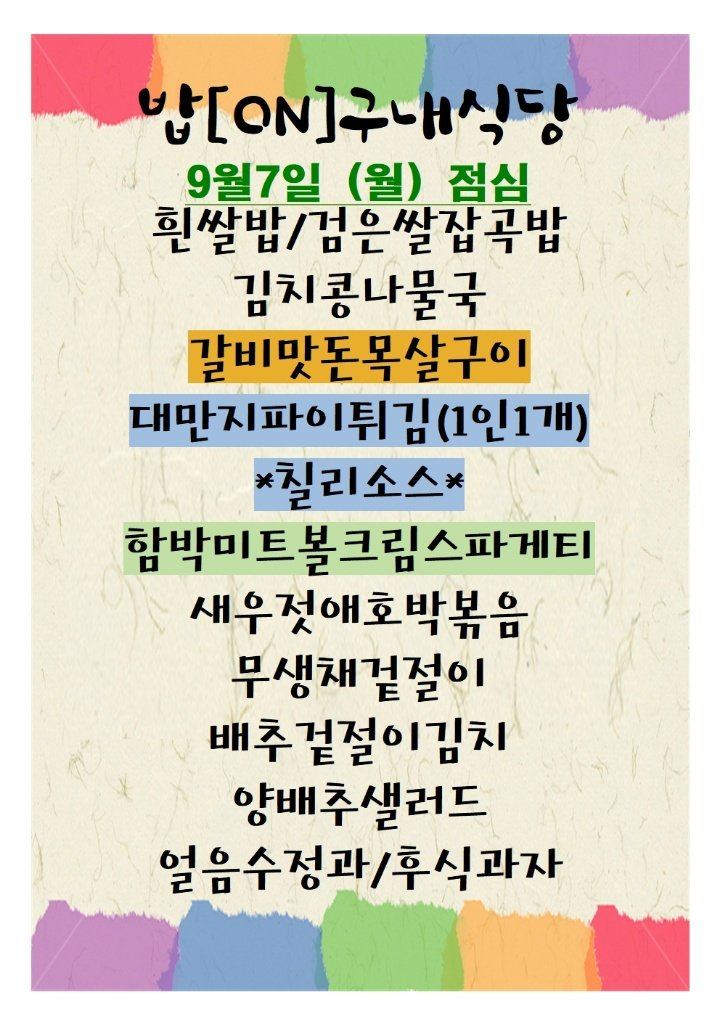
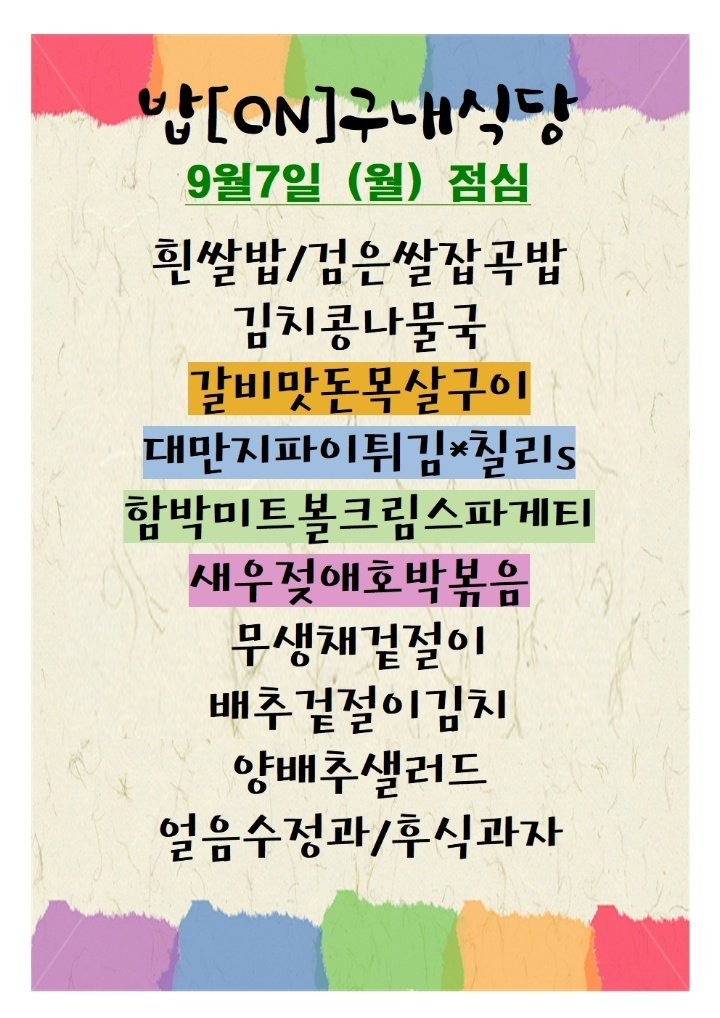
Update menu board assets

Changed region(s): [[0.1528, 0.1827, 0.825, 0.8831]]

diff --git a/menu-today/index.html b/menu-today/index.html
@@ -209,7 +209,7 @@
 
     <section class="meta-bar">
       <div class="meta-card"><div class="meta-label">기준 날짜</div><div class="meta-value">2026년 9월 7일 월요일</div></div>
-      <div class="meta-card"><div class="meta-label">최종 가져온 시간</div><div class="meta-value">2026-09-07 11:33:01</div></div>
+      <div class="meta-card"><div class="meta-label">최종 가져온 시간</div><div class="meta-value">2026-09-07 11:47:52</div></div>
       <div class="meta-card"><div class="meta-label">확인 완료</div><div class="meta-value">9개 식당</div></div>
       <div class="meta-card"><div class="meta-label">준비중</div><div class="meta-value">3개 채널</div></div>
     </section>
@@ -245,7 +245,7 @@
             <div class="sub">가산 어반워크2</div>
           </div>
         </div>
-        <div class="menu-inline-image"><img src="./images/babon.png" alt="밥(온) 구내식당 식단 이미지"></div><ul><li>힌쌀밥 / 끄은쌀섭곡밥</li><li>낌지롱나물국</li><li>발비맛돈목살구이</li><li>대만지파이튀김</li><li>*짐근소스*</li><li>함박미트봉크림스파게티</li><li>무생재겉절이</li><li>배주끝설이김지</li><li>양배주샐러드</li><li>린쌍밥 / 검은쌀잡곡밥</li><li>김지콩나물국</li></ul>
+        <div class="menu-inline-image"><img src="./images/babon.png" alt="밥(온) 구내식당 식단 이미지"></div><ul><li>원쌀밥 / 껄은쌀잡곡밥</li><li>함박미트볼크림스파게티</li><li>새우젖애호박볶음</li><li>얼음수정과 / 후식과자</li><li>고바</li><li>린쌍밥 / 검은쌀잡</li><li>김지콩나물국</li><li>박볶음 음</li></ul>
       </article>
 
       <article class="restaurant-card">

diff --git a/guro-menu/index.html b/guro-menu/index.html
@@ -32,7 +32,7 @@
   </header>
   <section class="meta">
     <div><small>기준 날짜</small><strong>2026년 9월 7일 월요일</strong></div>
-    <div><small>최종 갱신</small><strong>2026-09-07 11:33:14</strong></div>
+    <div><small>최종 갱신</small><strong>2026-09-07 11:48:05</strong></div>
     <div><small>등록 식당</small><strong>5개</strong></div>
   </section>
   <div class="notice">공개 카카오 채널의 메뉴 이미지를 자동 수집하고 OCR로 정리합니다. 텍스트에 오타가 있을 수 있으니 식단 이미지를 함께 확인해 주세요.</div>
